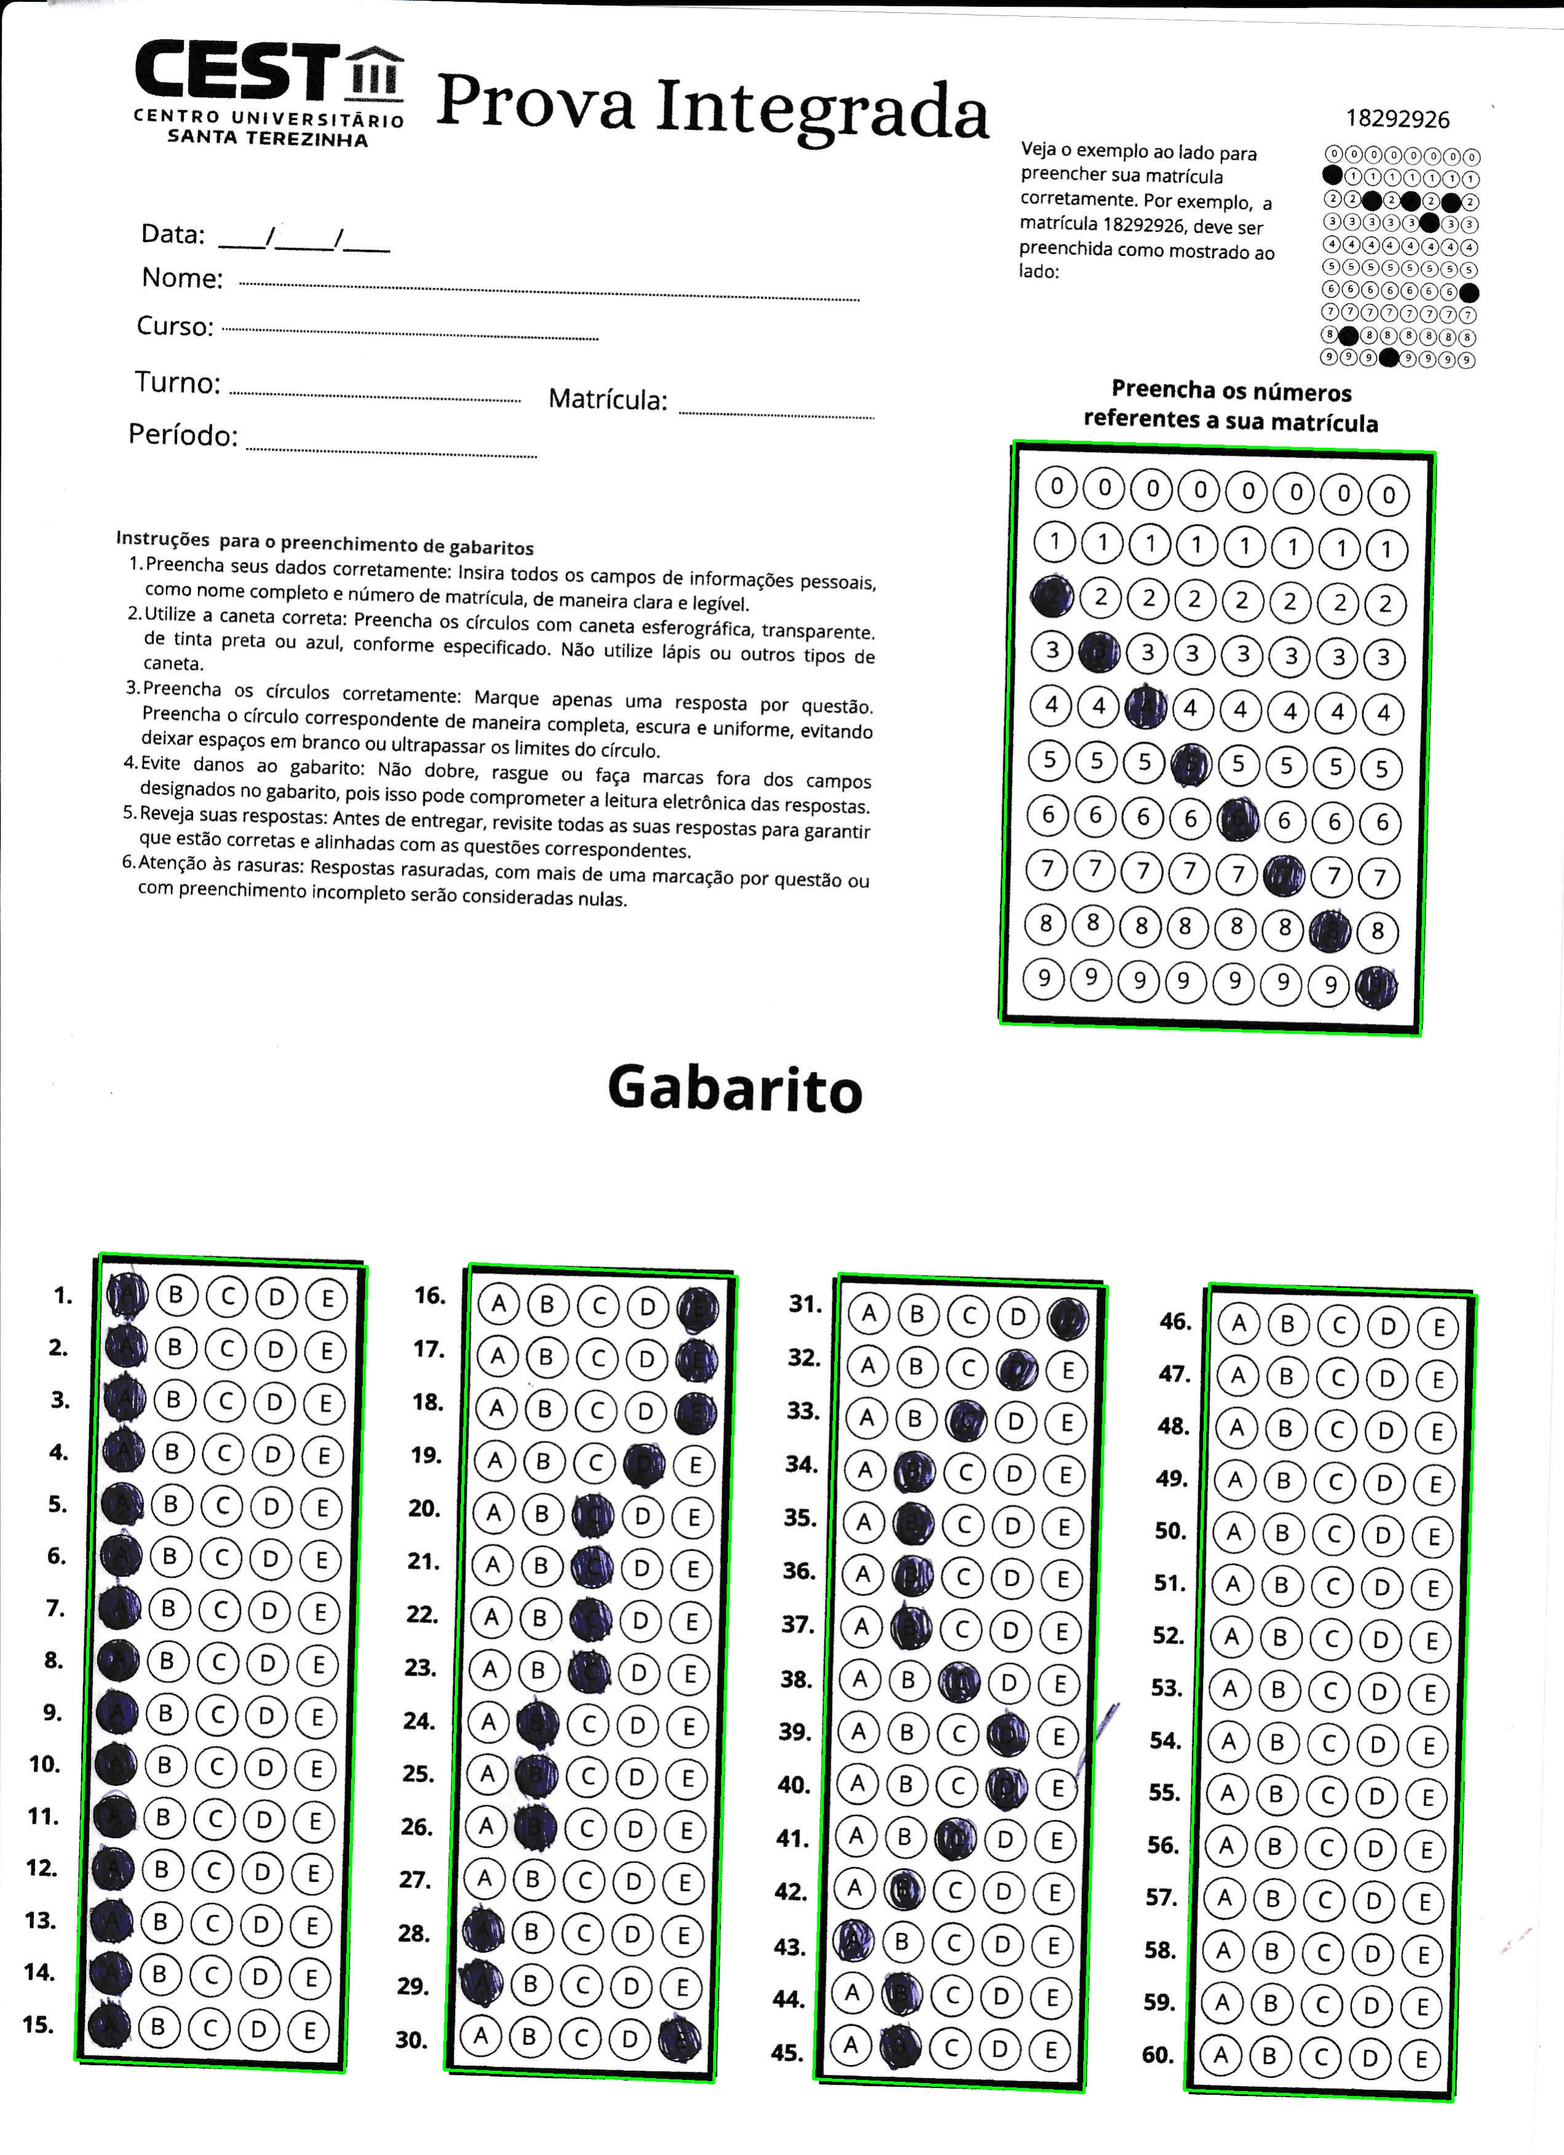
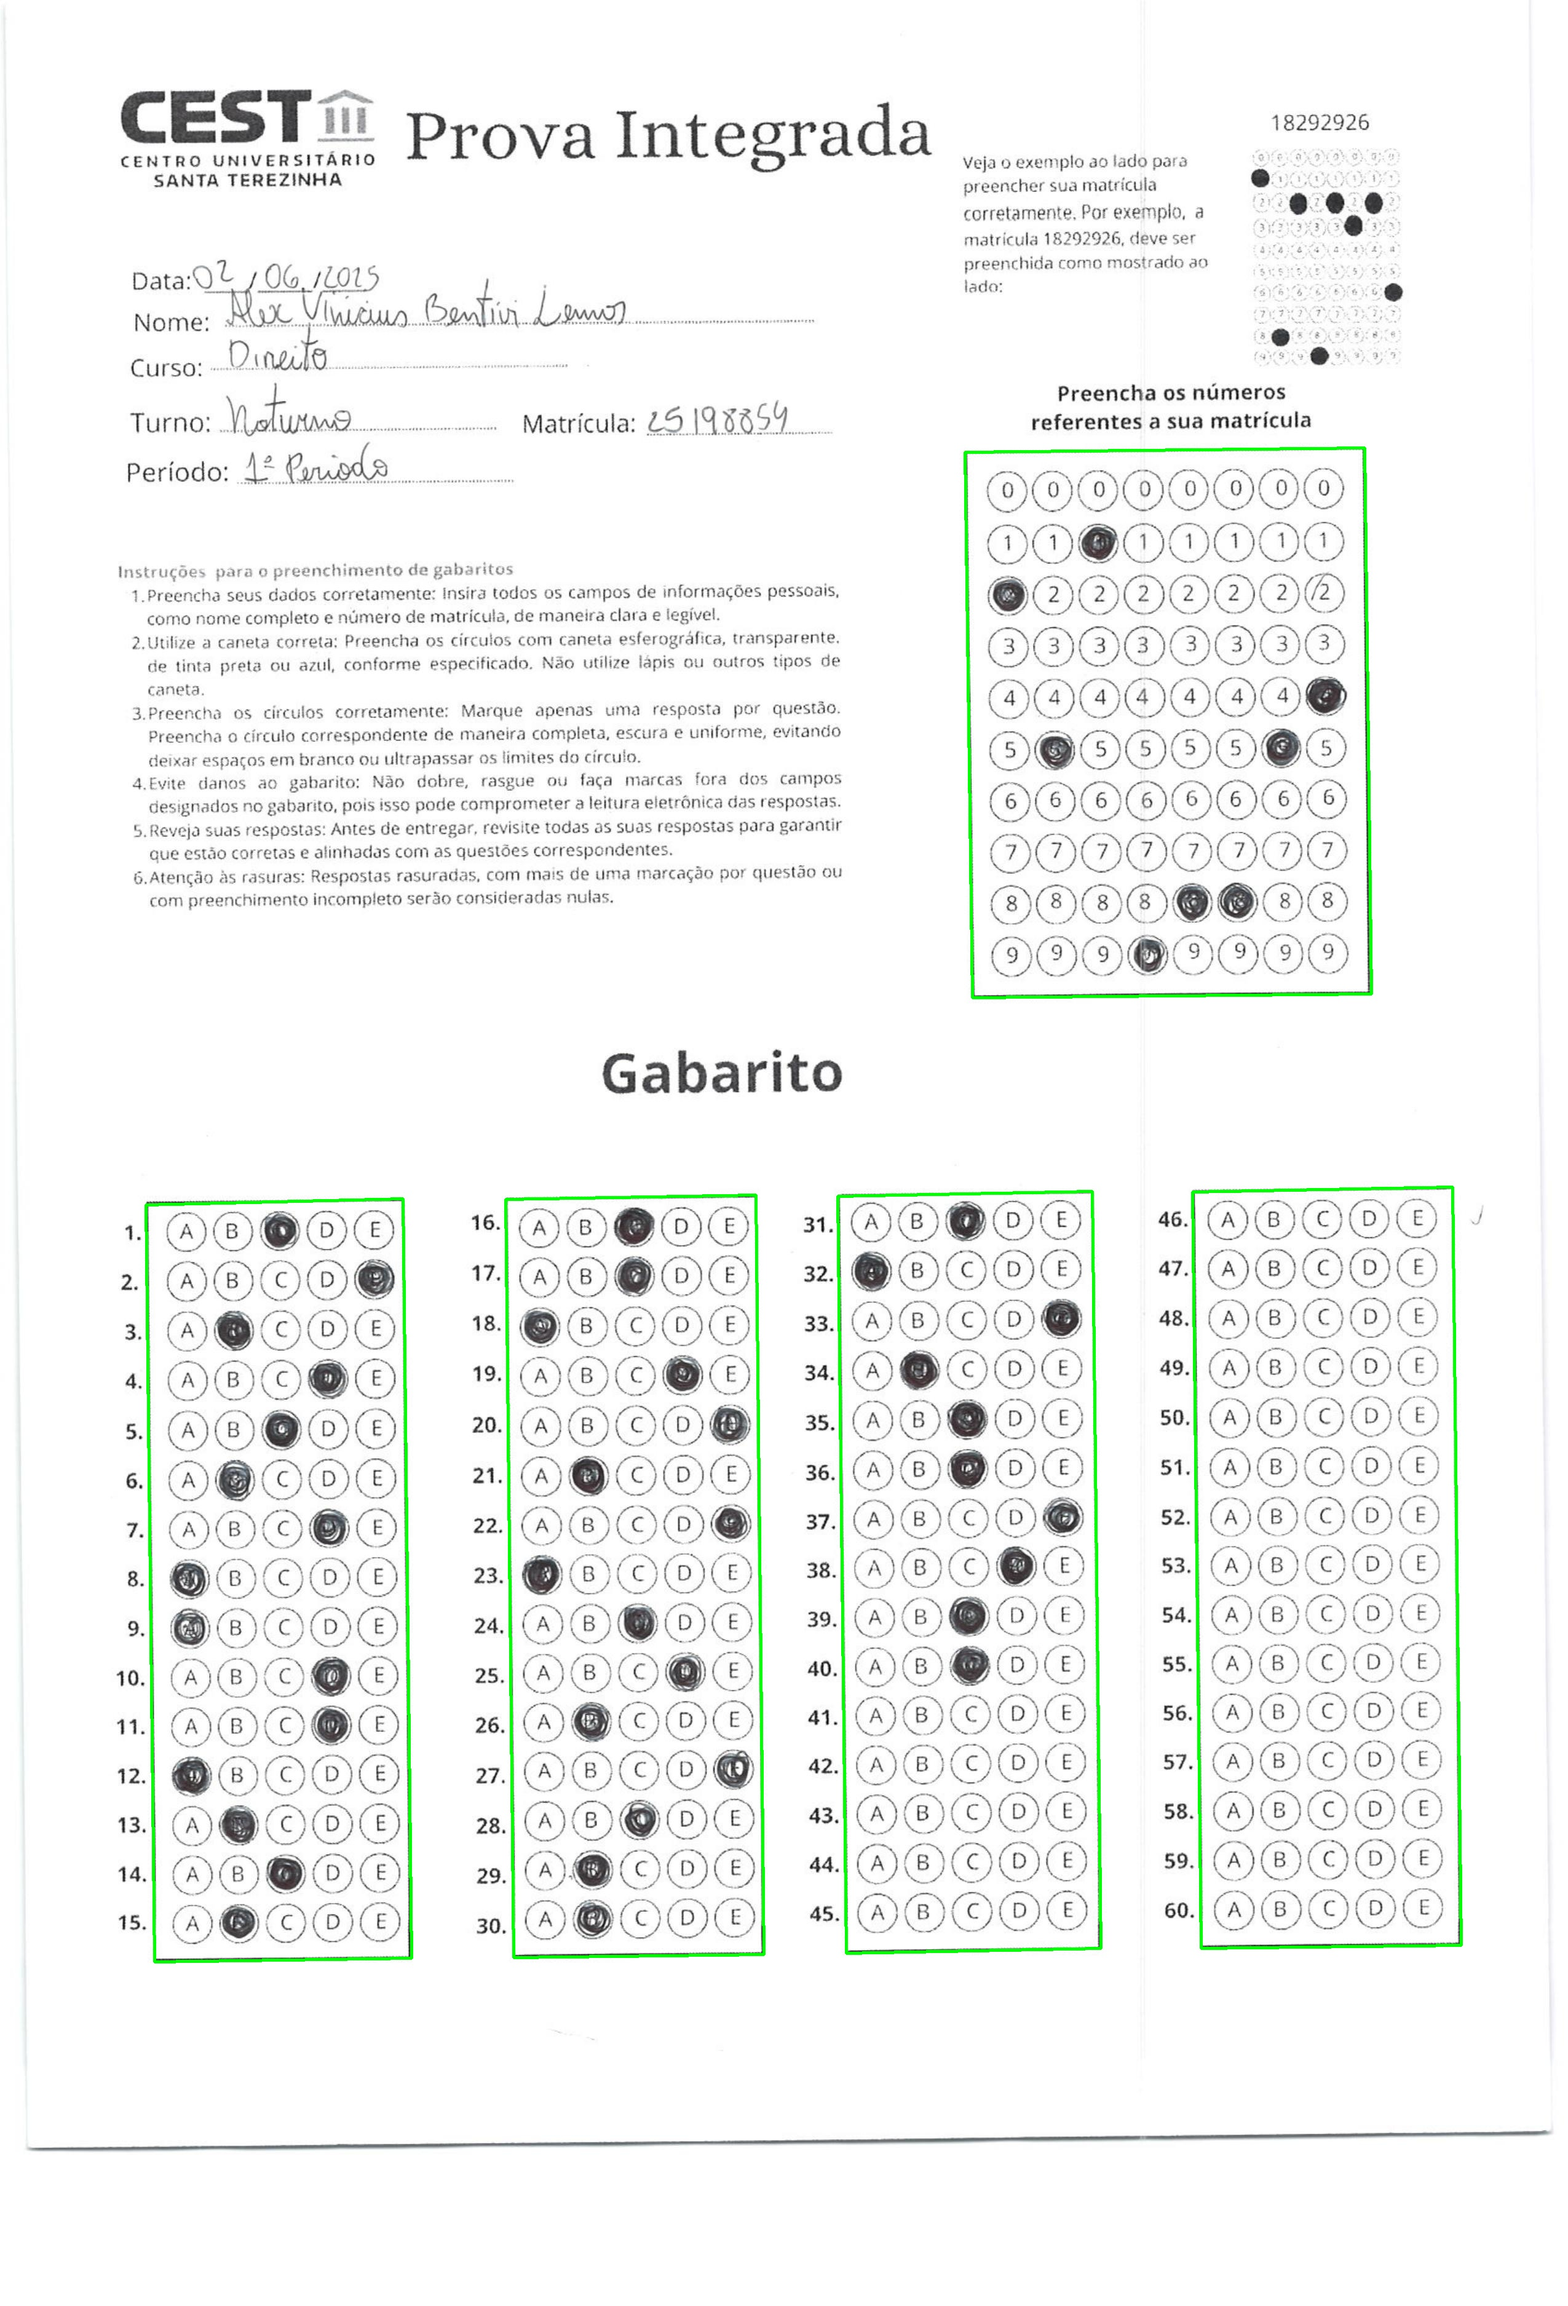
mudancas de parametros

Changed region(s): [[0.0, 0.0, 1.0, 0.9954], [0.4658, 0.1555, 0.4969, 0.1866]]

diff --git a/códigodoservidor.py b/códigodoservidor.py
@@ -152,7 +152,7 @@ def process_pdf(input_pdf_path, upload_id=1):
             total_pixels = sum(pixel_counts)
  
             max_count = max(pixel_counts)
-            threshold_rel = max_count * 0.7  # aumente para 70%
+            threshold_rel = max_count * 0.5  # aumente para 70%
             threshold_abs = 800              # novo valor mínimo absoluto
 
             if max_count < 3000:
